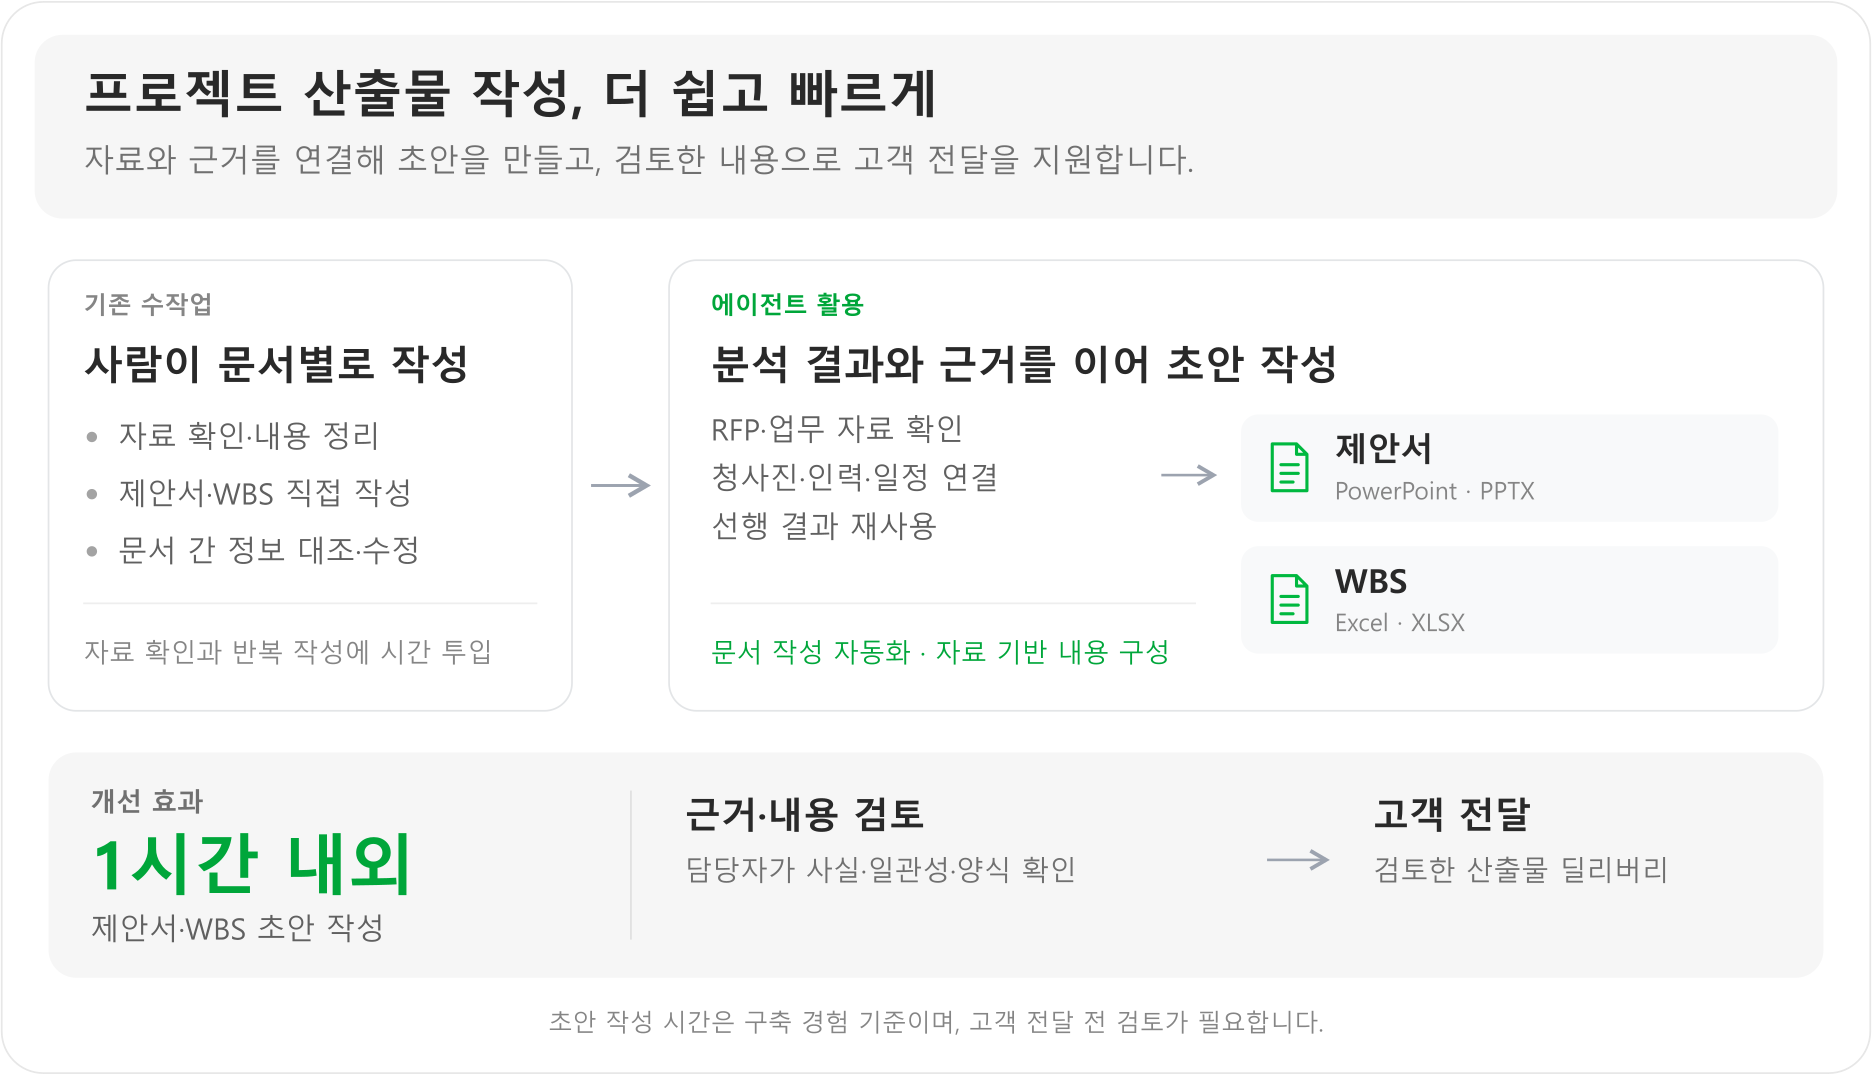
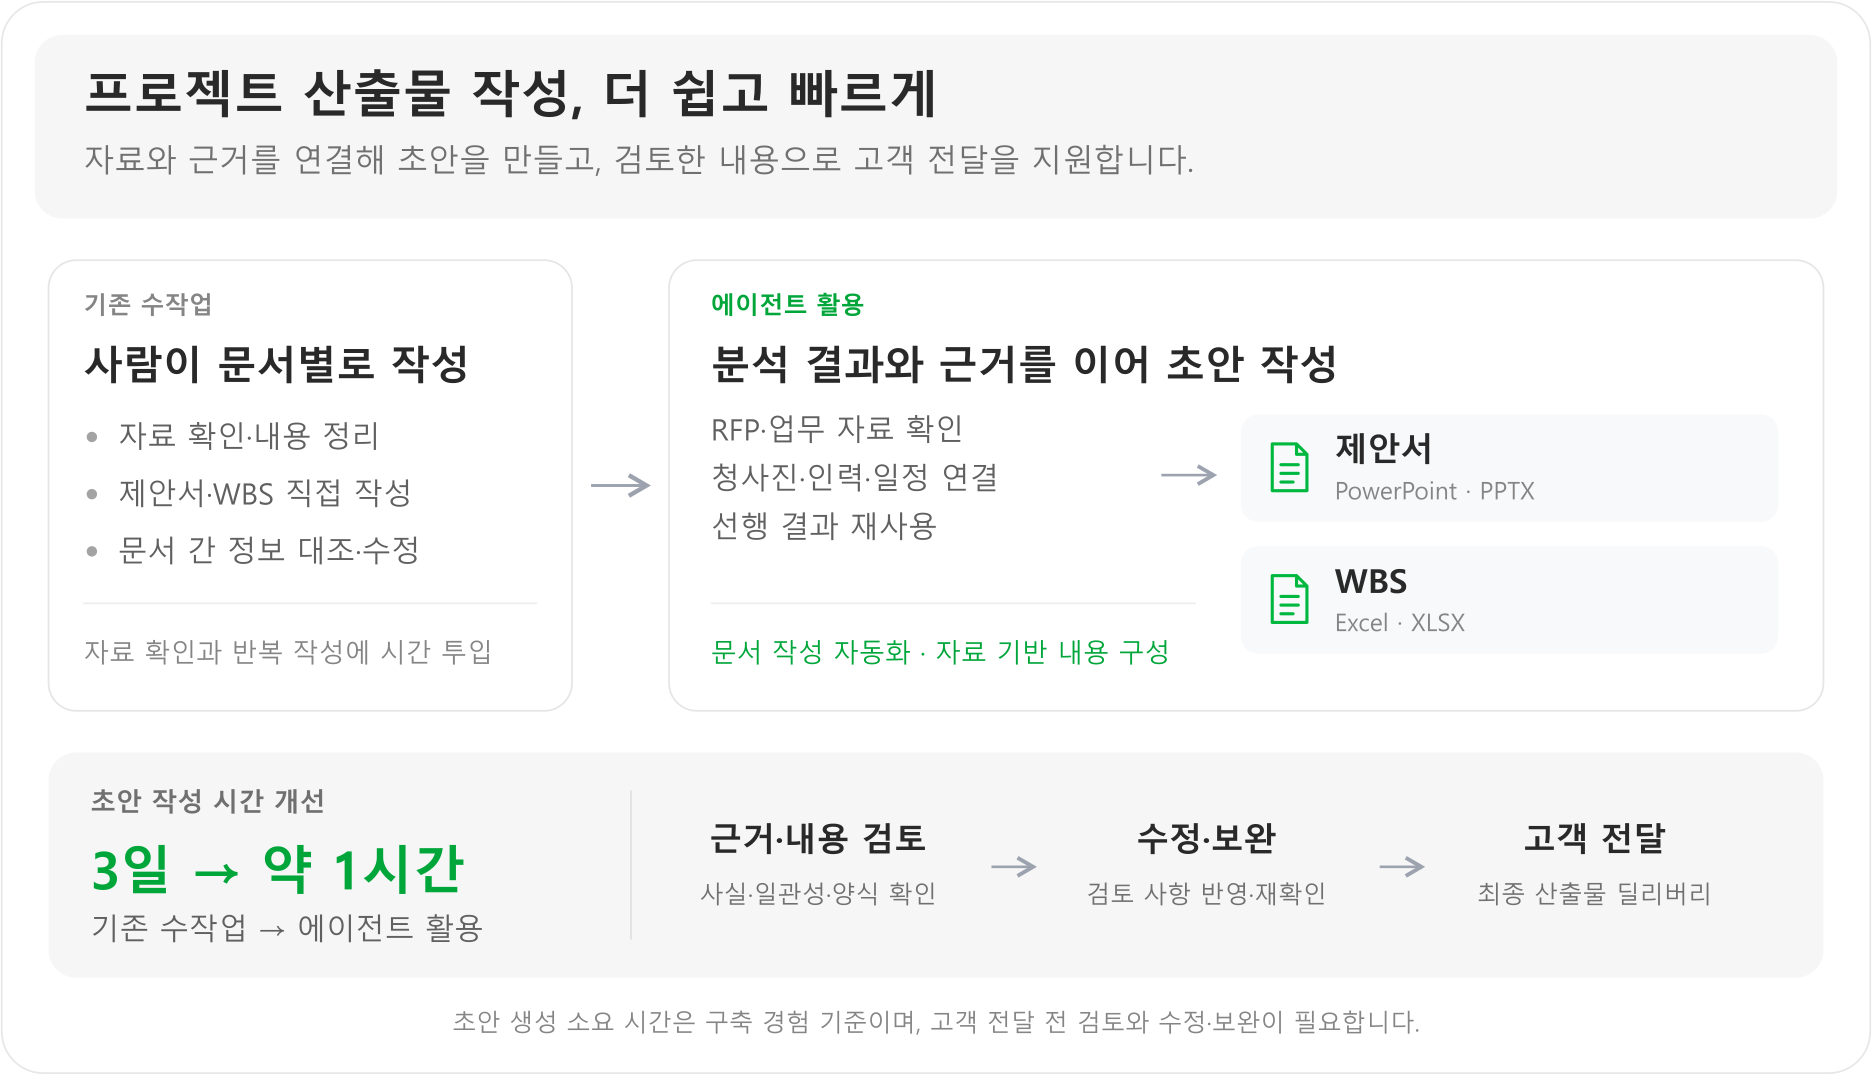
docs: update delivery purpose diagram and accessible description
📝 - Generated by Copilot

diff --git a/Hands-on/lab/index.md b/Hands-on/lab/index.md
@@ -40,7 +40,7 @@ RFP 에이전트를 구성하며 다음 내용을 익힙니다.
 
 RFP에서 요구사항·구축 청사진·추천 인력을 정리하고, 그 결과를 이어받아 제안서와 WBS를 작성하는 에이전트입니다.
 
-![프로젝트 산출물 작성 에이전트의 목적: 수작업을 줄여 제안서·WBS 초안을 1시간 내외로 작성하고 검토 후 고객에게 전달]({{ '/Hands-on_image/project-delivery-purpose.png' | relative_url }})
+![프로젝트 산출물 작성 에이전트의 목적: 제안서·WBS 초안 작성 시간을 기존 수작업 3일에서 에이전트 활용 시 약 1시간으로 줄이고 검토·수정·보완 후 고객에게 전달]({{ '/Hands-on_image/project-delivery-purpose.png' | relative_url }})
 
 ![RFP 분석부터 상세 WBS까지의 에이전트 업무 흐름]({{ '/Hands-on_image/ProjectDeliveryAgent흐름도.png' | relative_url }})
 
